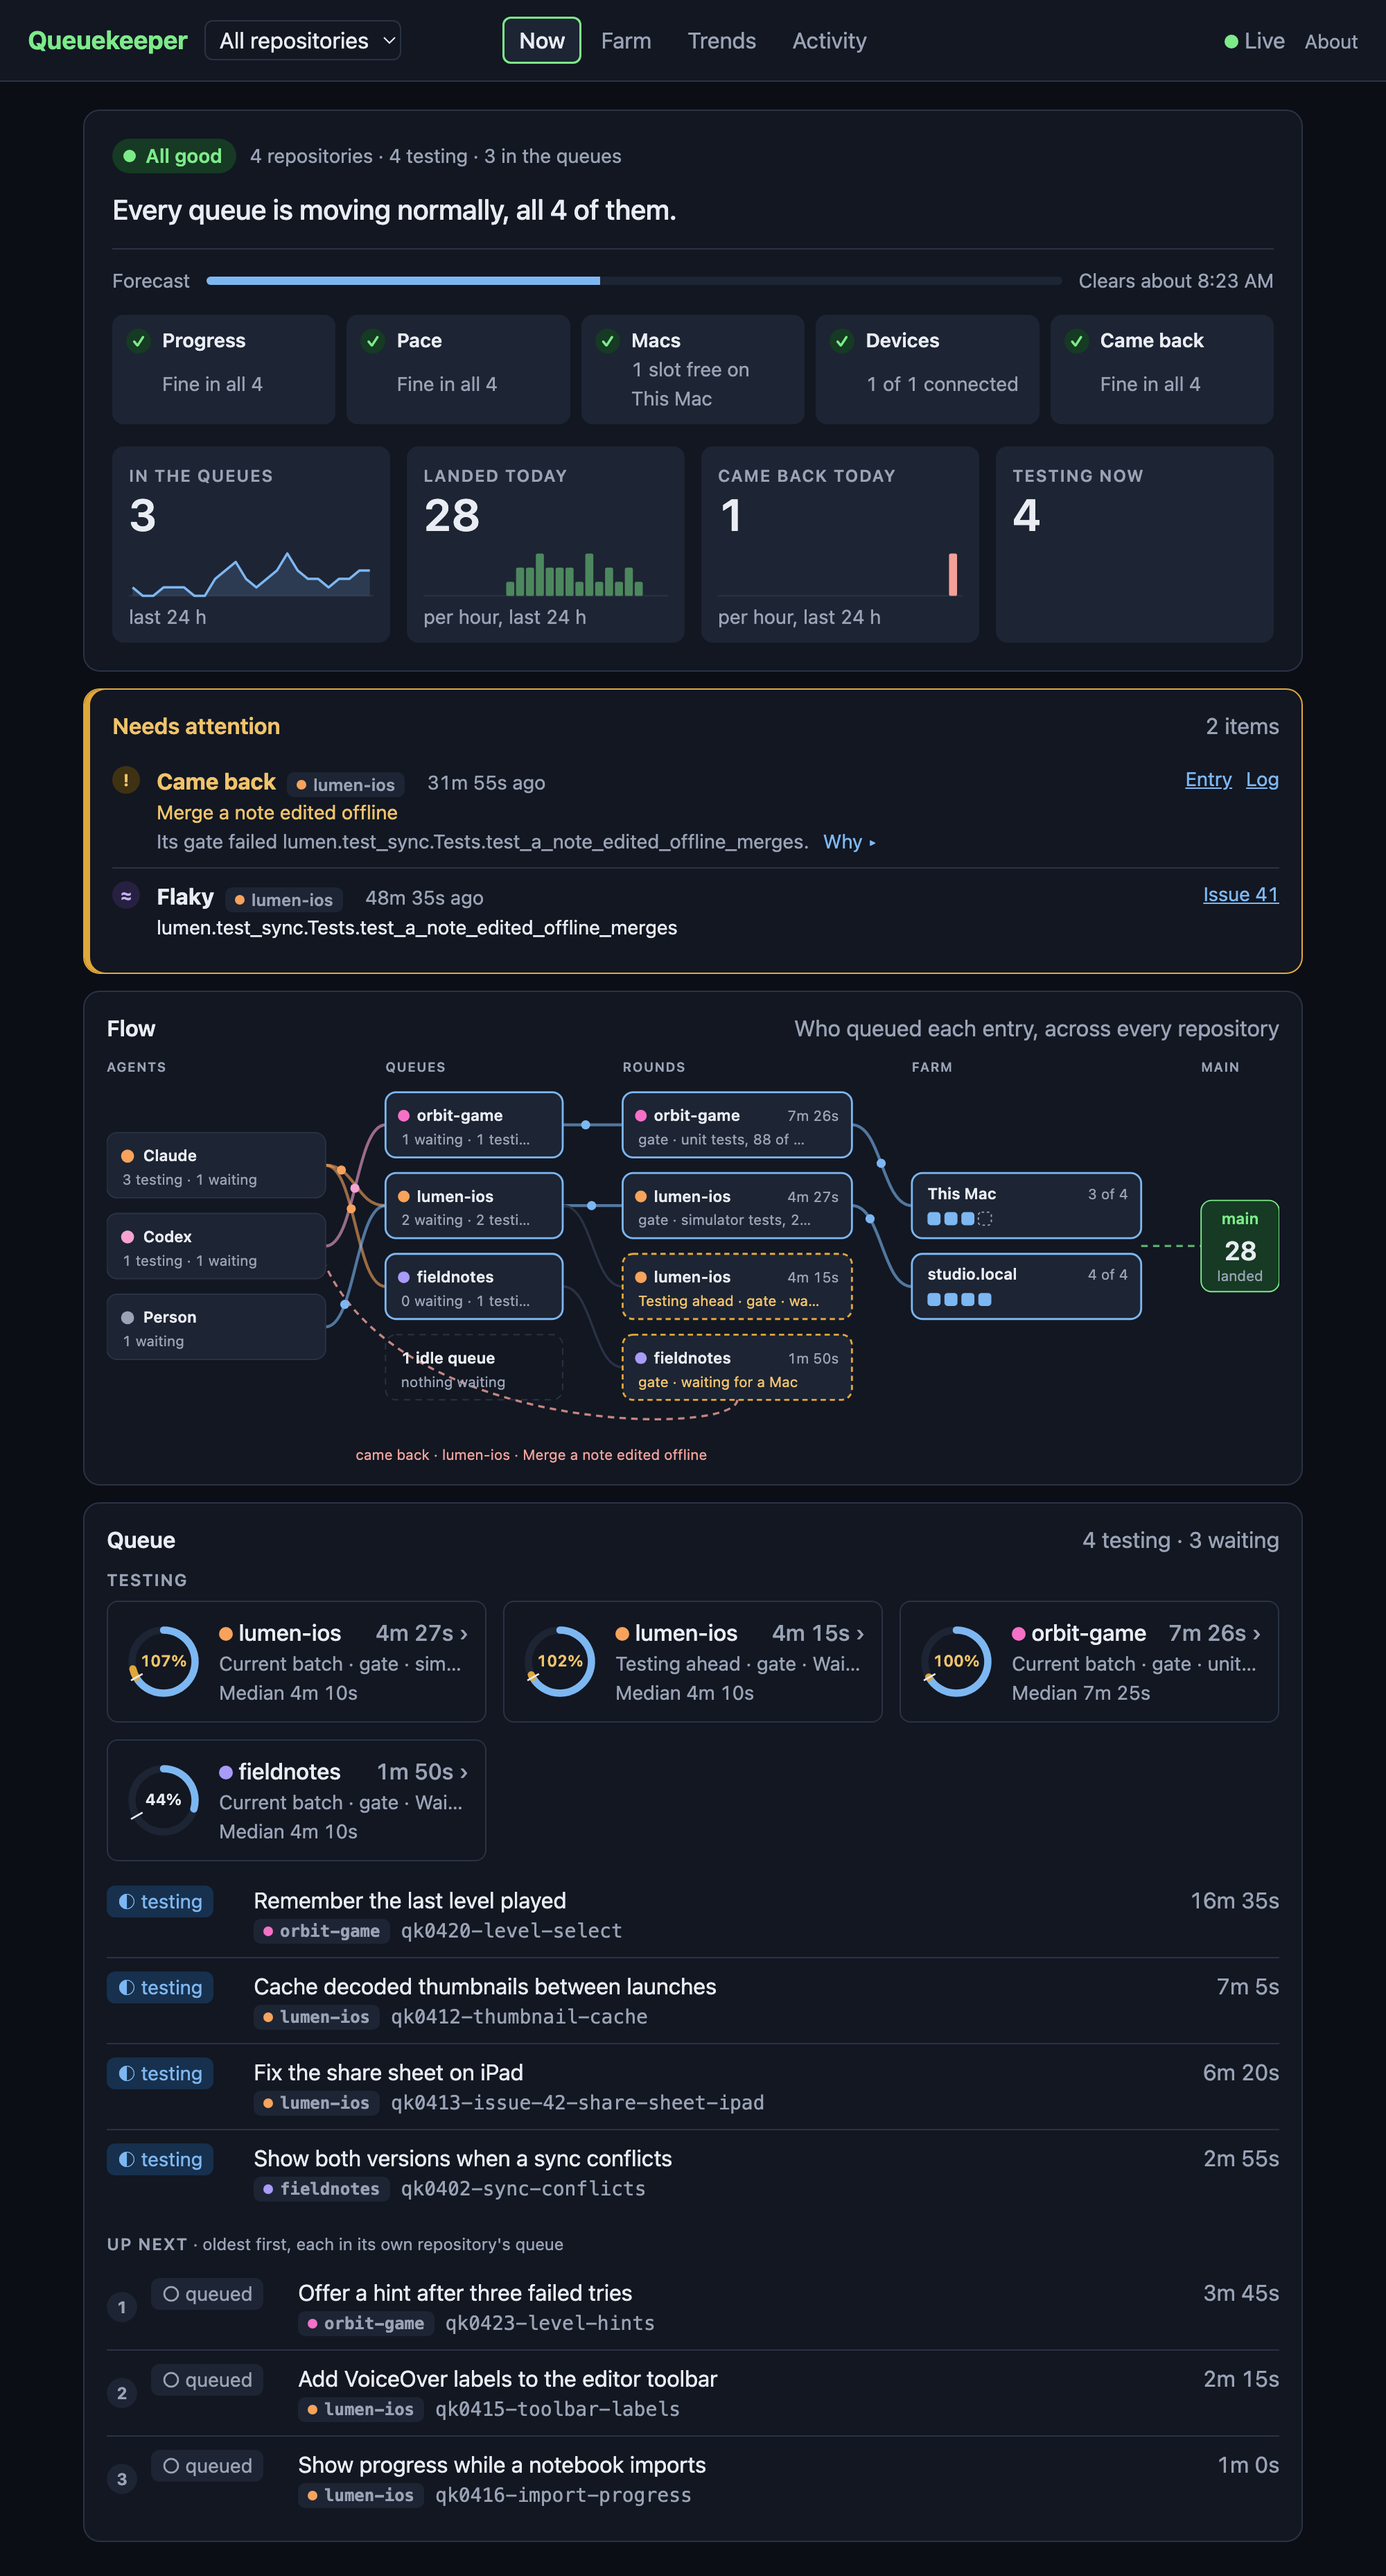
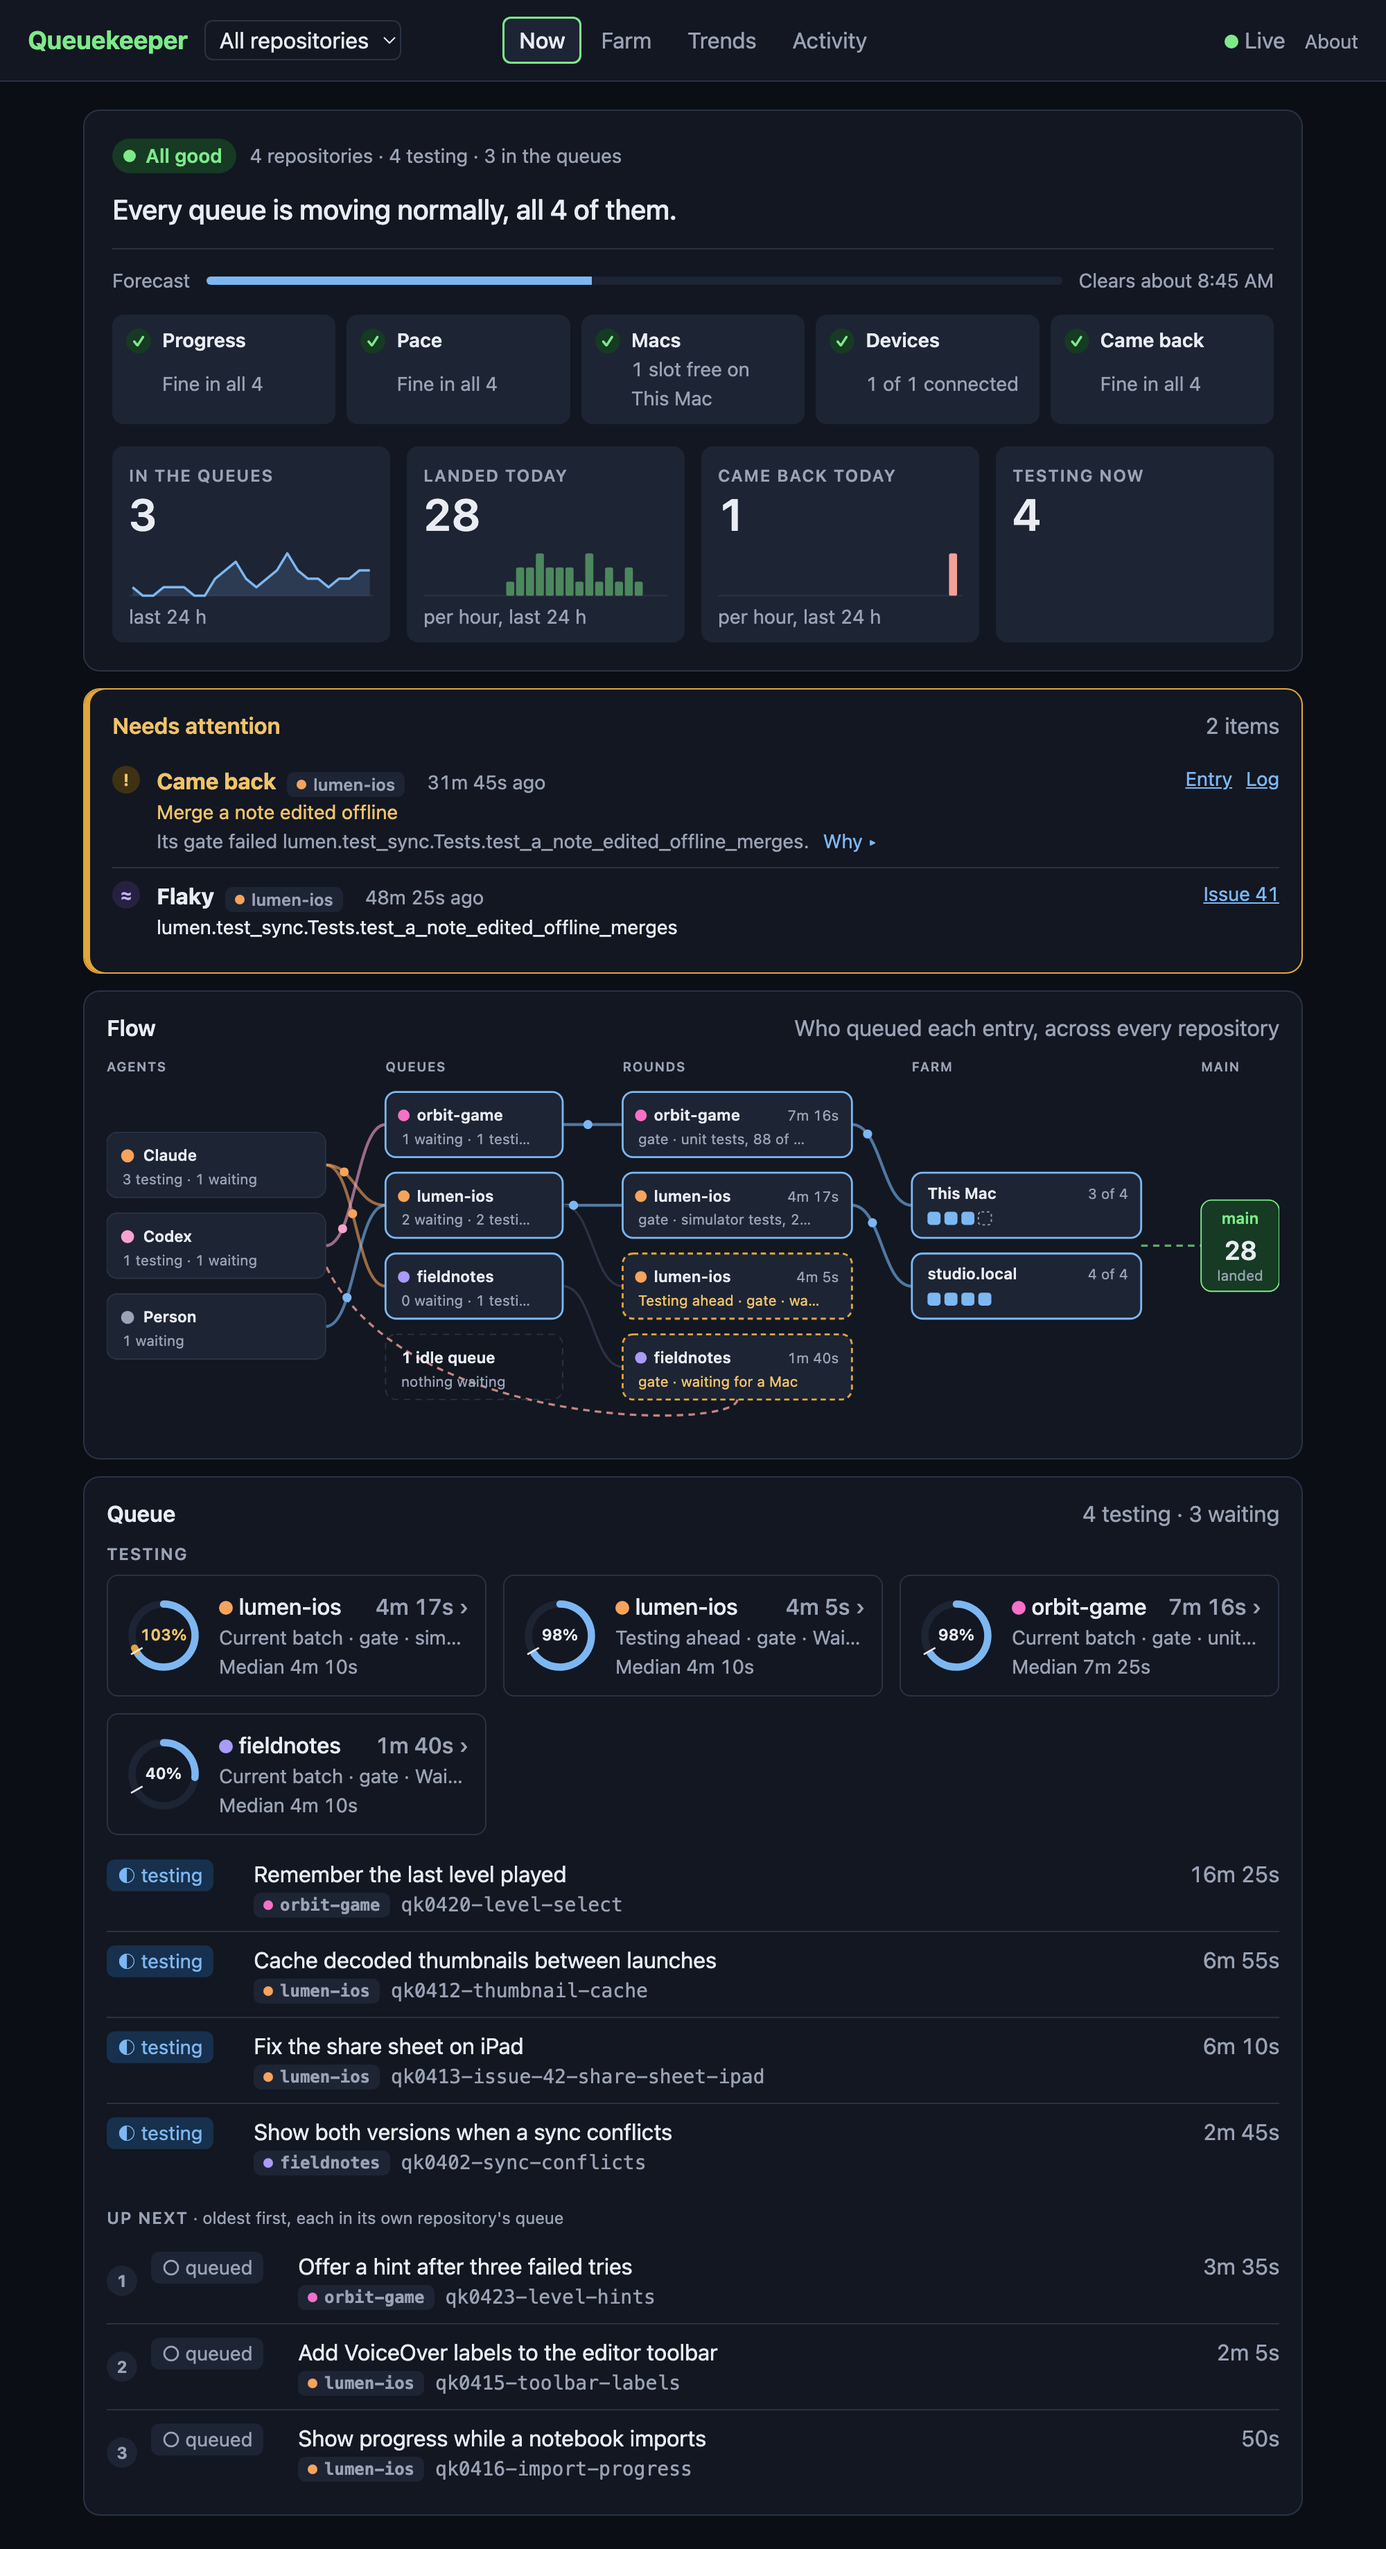
Start the Flow map's came-back arc at the foot of the lowest round, and drop the words under it
The arc started at the foot of the tallest column, so with fewer rounds than queues it began in empty space below
them. The words under it, cut at 60 letters, named what came back: the map is an overview, and Needs attention says
what came back and why, so the arc alone now says that something did.

diff --git a/plugins/visibility-dashboard/src/queuekeeper_dashboard/panels/queue.js b/plugins/visibility-dashboard/src/queuekeeper_dashboard/panels/queue.js
@@ -27,7 +27,7 @@
     const agents = model.agents.slice();
     if (back && !agents.some(one => one.name === back.agent)) agents.push({ name: back.agent, waiting: 0, testing: 0, back: true, queues: [] });
     const rows = Math.max(2, agents.length, gates.length, macs.length, single ? 0 : queues.length), body = rows * PITCH - (PITCH - NODE);
-    const height = TOP + body + (back ? 50 : 8), first = count => TOP + (body - (count * PITCH - (PITCH - NODE))) / 2;
+    const height = TOP + body + (back ? 30 : 8), first = count => TOP + (body - (count * PITCH - (PITCH - NODE))) / 2;
     const fit = (value, most) => (value = String(value || "")).length > most ? value.slice(0, most - 1) + "…" : value;
     const text = (x, y, value, kind, anchor) => svg("text", { x, y, class: kind || null, "text-anchor": anchor || null }, value);
     const box = (x, y, width, tall, kind) => svg("rect", { x, y, width, height: tall, rx: 8, class: "node " + (kind || "") });
@@ -112,11 +112,12 @@
     edge(macs.length ? fx + fw : rx + rw, TOP + body / 2, mx, TOP + body / 2, "land", false);
     // What came back, as an arc from the rounds to whoever sent it
     if (back) {
-      // It leaves the rounds' foot and comes in at the side of the agent's node, so it passes behind no other.
-      const index = agents.findIndex(one => one.name === back.agent), from = [rx + rw / 2, TOP + body], to = [ax + aw, first(agents.length) + index * PITCH + NODE - 10];
-      edges.push(svg("path", { class: "edge back", d: `M${from[0]} ${from[1]} C ${from[0]} ${height - 22}, ${to[0] + 60} ${height - 22}, ${to[0]} ${to[1]}` }));
-      nodes.push(text((from[0] + to[0]) / 2, height - 4, fit((back.state === "conflict" ? "conflicted · " : "came back · ")
-        + (single ? "" : back.repository + " · ") + (back.subject || back.id), 60), "sub danger", "middle"));
+      // It leaves the foot of the rounds' lowest node, which may stand above the foot of a taller column, and comes in
+      // at the side of the agent's node, so it passes behind no other.
+      const index = agents.findIndex(one => one.name === back.agent), shown = Math.max(1, gates.length);
+      const from = [rx + rw / 2, first(shown) + shown * PITCH - (PITCH - NODE)], to = [ax + aw, first(agents.length) + index * PITCH + NODE - 10];
+      // The map is an overview, so the arc says nothing of what came back; Needs attention says what and why.
+      edges.push(svg("path", { class: "edge back", d: `M${from[0]} ${from[1]} C ${from[0]} ${height - 6}, ${to[0] + 60} ${height - 6}, ${to[0]} ${to[1]}` }));
     }
     return svg("svg", { viewBox: `0 0 ${W} ${height}`, role: "group", "aria-label": "Agents' entries flow through the queue"
       + (single ? "" : "s") + " and the gates on the farm's Macs to main" }, edges, dots, nodes);
